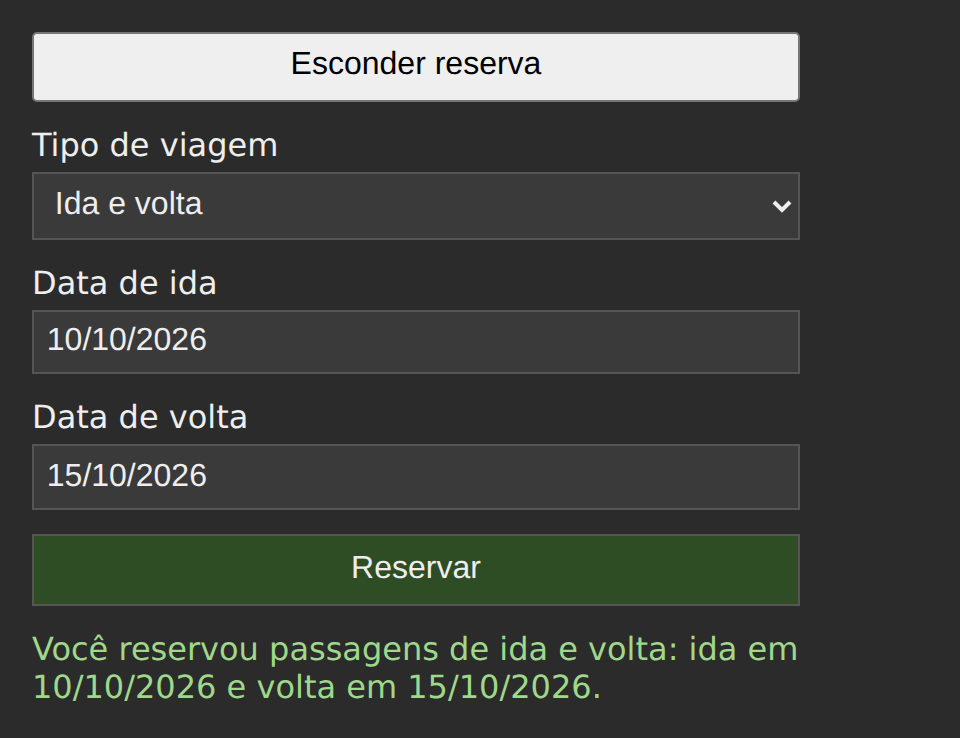
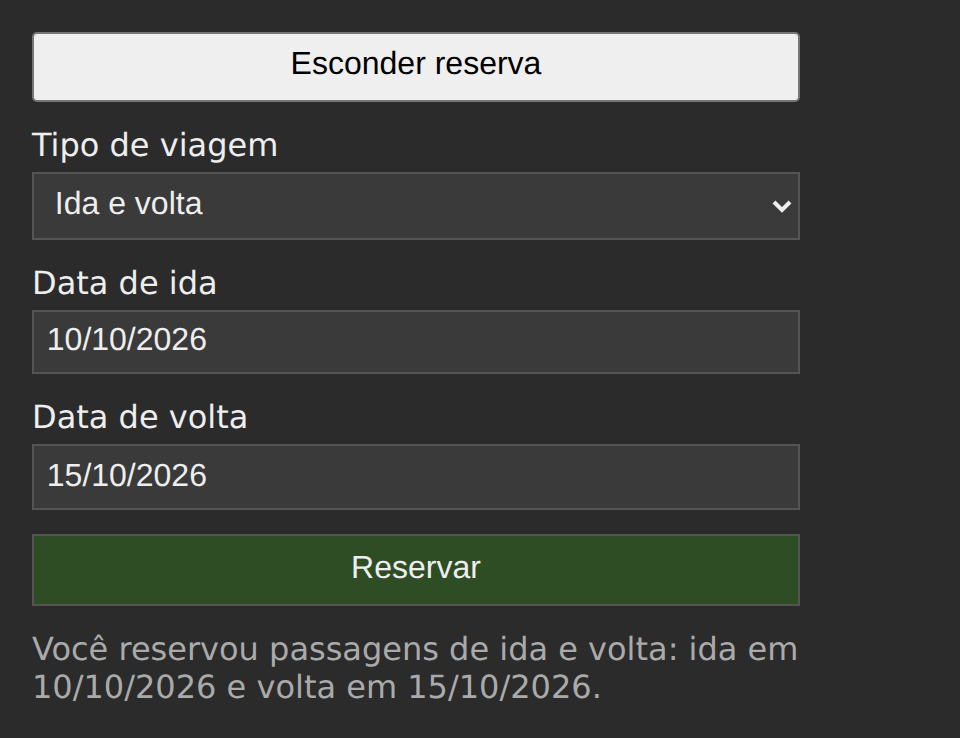
Envia a reserva ao servidor no Web Component
Desde "Especifica na Reserva de passagem o envio que ignora o reenvio",
o teste pede o "Enviando…", o reenvio ignorado, a falha e a requisição
cancelada ao esconder, e o Web Component ainda escreve a confirmação
no submit, sem requisição: "5 enviando" falha.

O tratarEnvio guarda o AbortController do envio em andamento e volta
antes de tudo se há um: é a política exhaust escrita como guarda. A
reserva é lida dos campos no clique, e a resposta confirma essa cópia,
e não os campos, que o usuário pode ter editado durante o envio; a
falha escreve a mensagem do domínio, e o cancelamento não escreve
nada. O finally solta o controlador, e o disconnectedCallback aborta o
envio em andamento, como no Login.

npm run conformidade -- formulario/web-component passa nas 22
verificações; sem o guarda, falha "5 reenvio ignorado", com duas
requisições abertas. As capturas das quatro cenas de antes não mudam,
a da cena reservado muda com a cor neutra da situação, e entram as das
cenas enviando e falha, conferidas nas imagens.

Refs: tcc-32dr

Changed region(s): [[0.0312, 0.8726, 0.8438, 0.9661]]

diff --git a/implementacoes/formulario/web-component/src/main.ts b/implementacoes/formulario/web-component/src/main.ts
@@ -1,7 +1,10 @@
 import {
+  MENSAGENS,
   confirmacaoDaReserva,
+  enviarReserva,
   erroDaData,
   erroDaOrdem,
+  foiCancelado,
   hoje,
   type TipoDeViagem,
 } from "../../dominio";
@@ -45,6 +48,9 @@ class FormularioDeCompra extends HTMLElement {
   private botaoDeReservar!: HTMLButtonElement;
   private situacao!: HTMLParagraphElement;
 
+  // Estado da coordenação: o envio em andamento, que ignora o reenvio.
+  private controlador?: AbortController;
+
   connectedCallback() {
     this.innerHTML = modelo;
     this.formulario = this.querySelector("form")!;
@@ -69,6 +75,11 @@ class FormularioDeCompra extends HTMLElement {
     this.validar();
   }
 
+  // Sem isto, o envio continua fora da página.
+  disconnectedCallback() {
+    this.controlador?.abort();
+  }
+
   private campo(nome: Campo): HTMLInputElement {
     return this.querySelector(`input[name="${nome}"]`)!;
   }
@@ -78,13 +89,27 @@ class FormularioDeCompra extends HTMLElement {
     this.validar();
   }
 
+  // O clique durante o envio é ignorado; editar não cancela o envio, e a
+  // confirmação é da reserva que saiu.
   private tratarEnvio(evento: SubmitEvent) {
     evento.preventDefault();
-    this.situacao.textContent = confirmacaoDaReserva({
+    if (this.controlador) return;
+    const reserva = {
       tipo: this.tipo.value as TipoDeViagem,
       ida: this.campos.ida.value,
       volta: this.campos.volta.value,
-    });
+    };
+    const controlador = new AbortController();
+    this.controlador = controlador;
+    this.situacao.textContent = MENSAGENS.enviando;
+    enviarReserva(reserva, controlador.signal)
+      .then(
+        () => (this.situacao.textContent = confirmacaoDaReserva(reserva)),
+        (erro) => {
+          if (!foiCancelado(erro)) this.situacao.textContent = MENSAGENS.falha;
+        },
+      )
+      .finally(() => (this.controlador = undefined));
   }
 
   // Revalida o formulário inteiro a cada evento: mostra os erros e habilita
